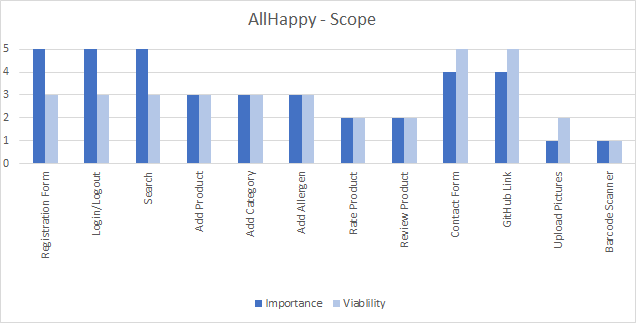
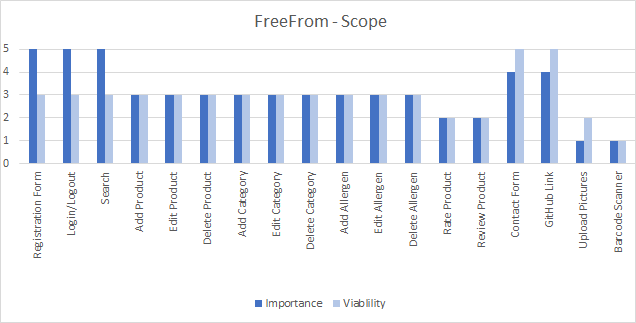
update project scope and site map

Changed region(s): [[0.0299, 0.1548, 0.9858, 0.805], [0.3884, 0.031, 0.6274, 0.0929]]

diff --git a/README.md b/README.md
@@ -139,7 +139,11 @@ Login/Logout|User login/logout form|5|3|Op-2|1
 Search|Enables users to search the database based on one or more allergies or intolerances|5|3|Op-1|1
 Add Product|Enables users to add a product to the database|3|3|Op-2|1
 Add Category|Enables users with required privelages to add product categories to the database|3|3|Op-1, Op-2|1
-Add Allergen|Enables users with the required privelages to add allergen types to the database|3|3|Op-1, Op-2|1
+Edit Category|Enables users with required privelages to edit product categories in the database|3|3|Op-1, Op-2|1
+Delete Category|Enables users with required privelages to delete product categories from the database|3|3|Op-1, Op-2|1
+Add Allergen|Enables users with the required privelages to add allergens to the database|3|3|Op-1, Op-2|1
+Edit Allergen|Enables users with the required privelages to edit allergens in the database|3|3|Op-1, Op-2|1
+Delete Allergen|Enables users with the required privelages to deelte allergens in the database|3|3|Op-1, Op-2|1
 Rate Product|Enables users to give a star rating to a product|2|2|Op-2|1
 Review Product|Enables users to review a product|2|2|Op-2|1
 Contact Form|Form to contact developer|4|5|Op-3|1
